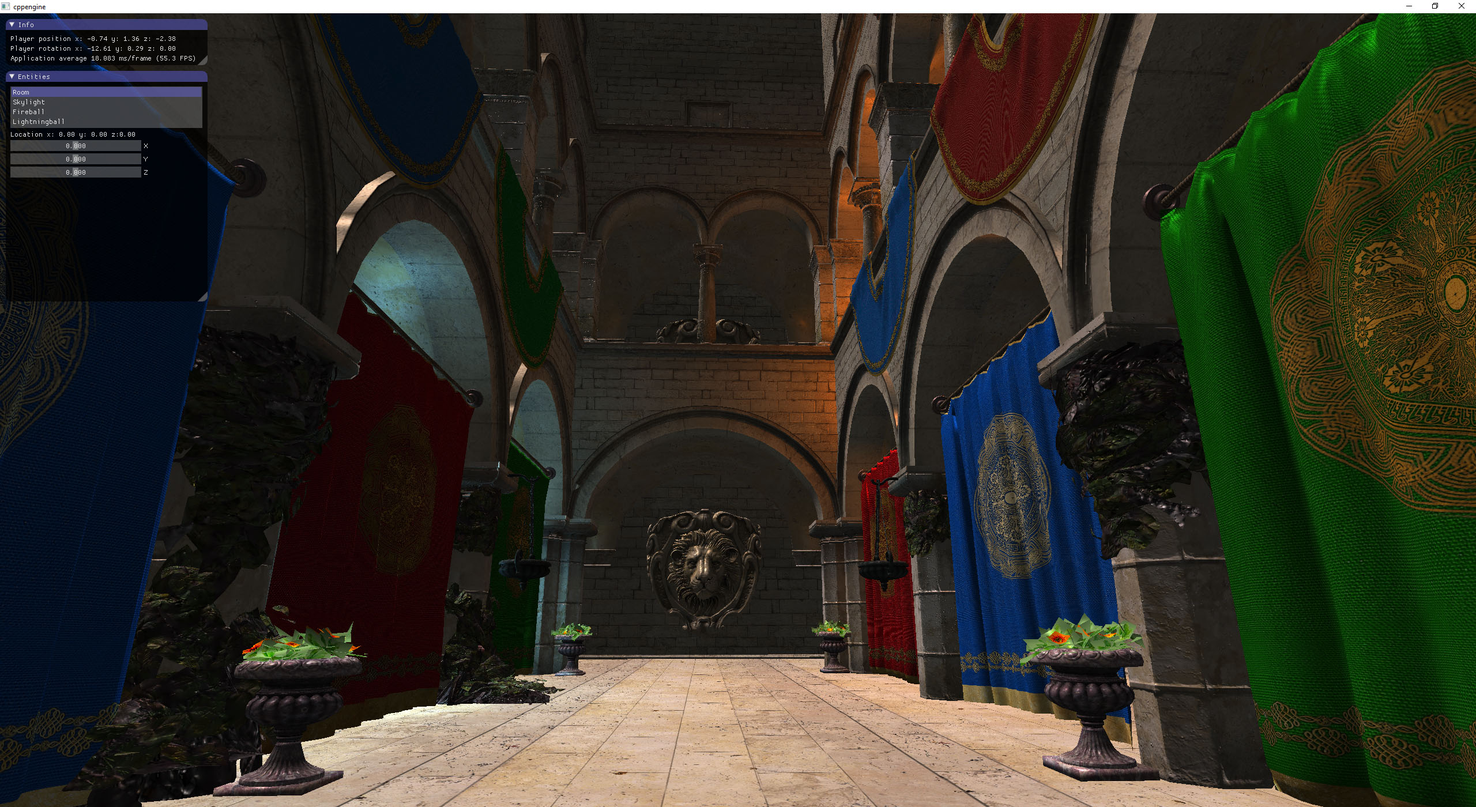
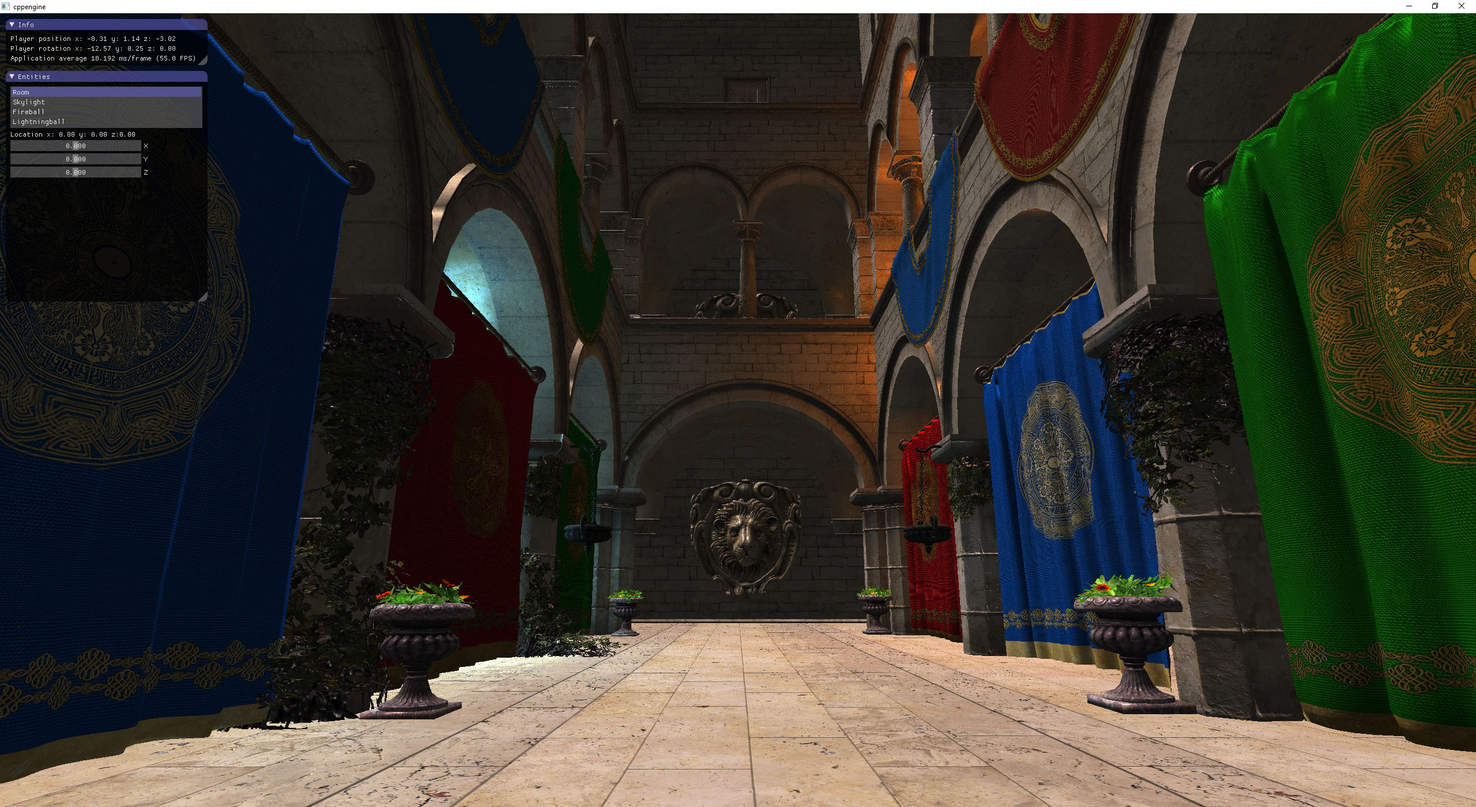
better shot with alpha mask actually working

diff --git a/src/material.hpp b/src/material.hpp
@@ -46,6 +46,7 @@ private:
 	bool useNormalMap;
 	bool useHeightMap;
 	bool useEmissiveMap;
+	bool useAplhaMap;
 
 	float specularStrength;
 	float emissiveStrength;
